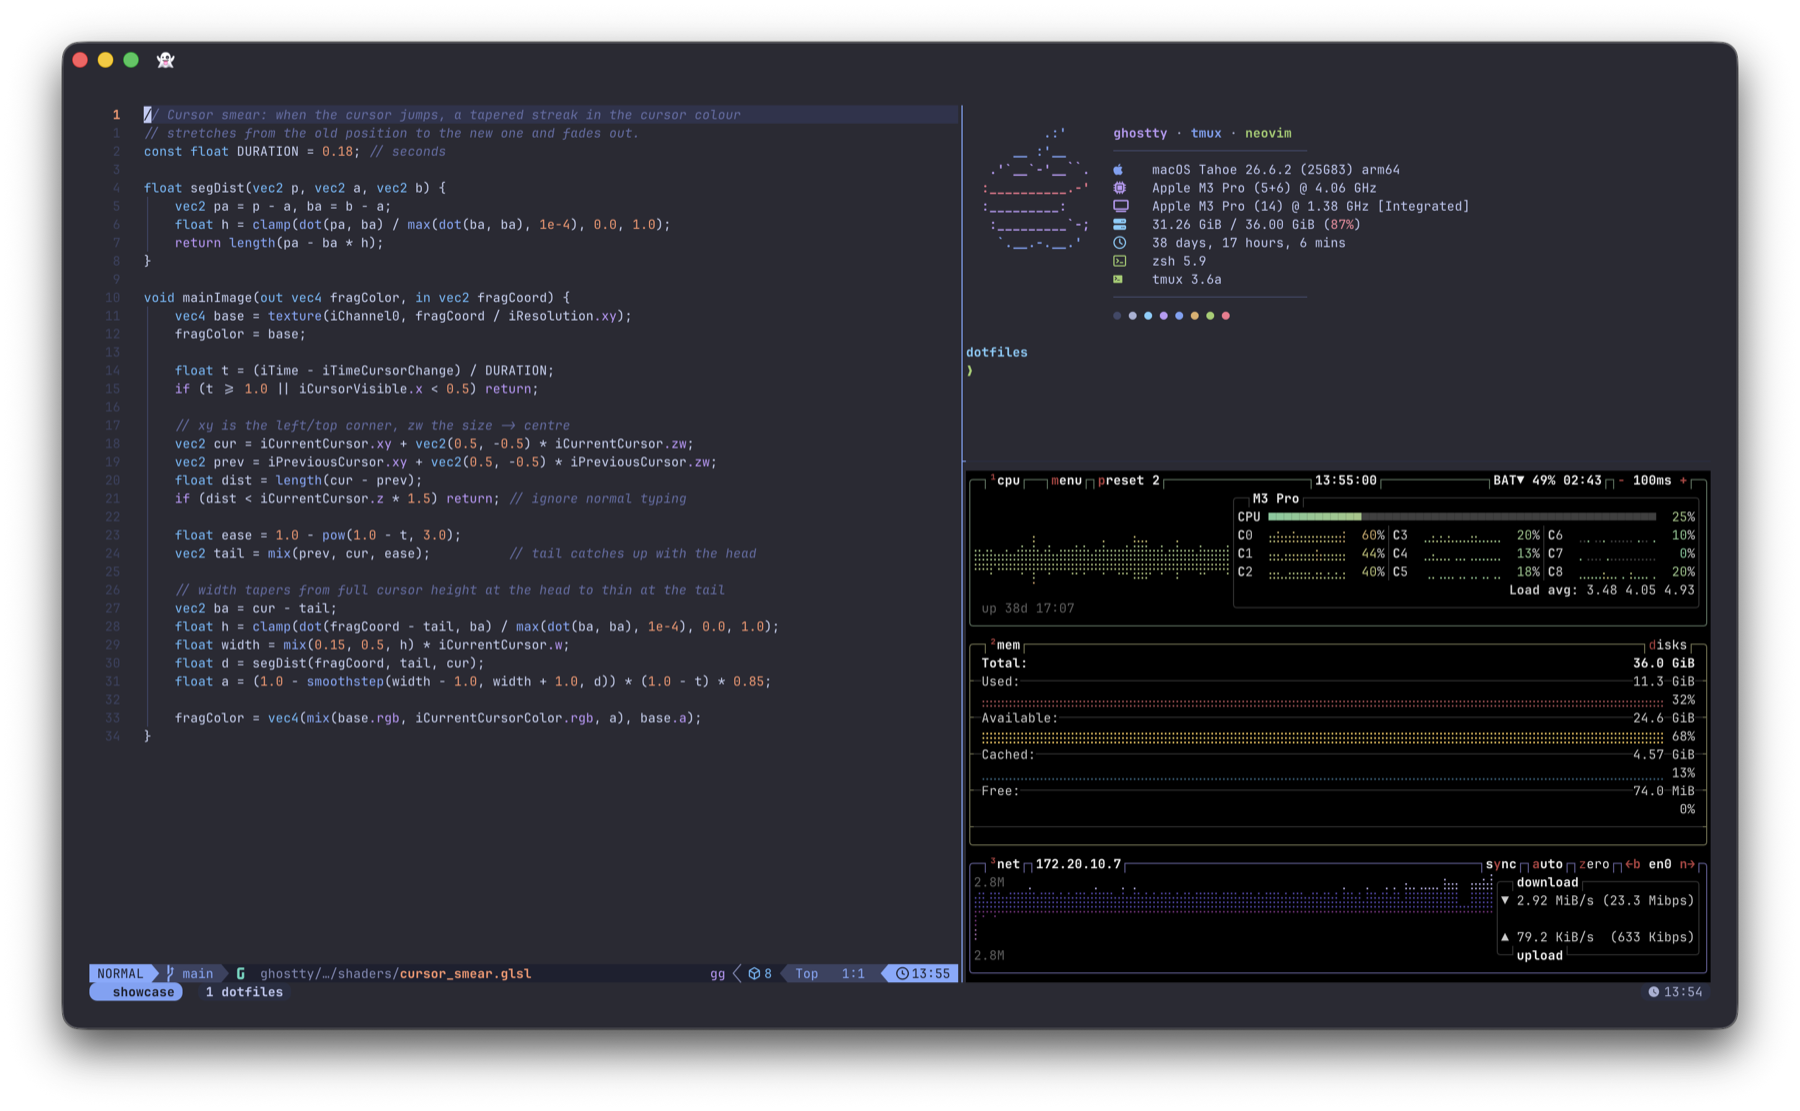
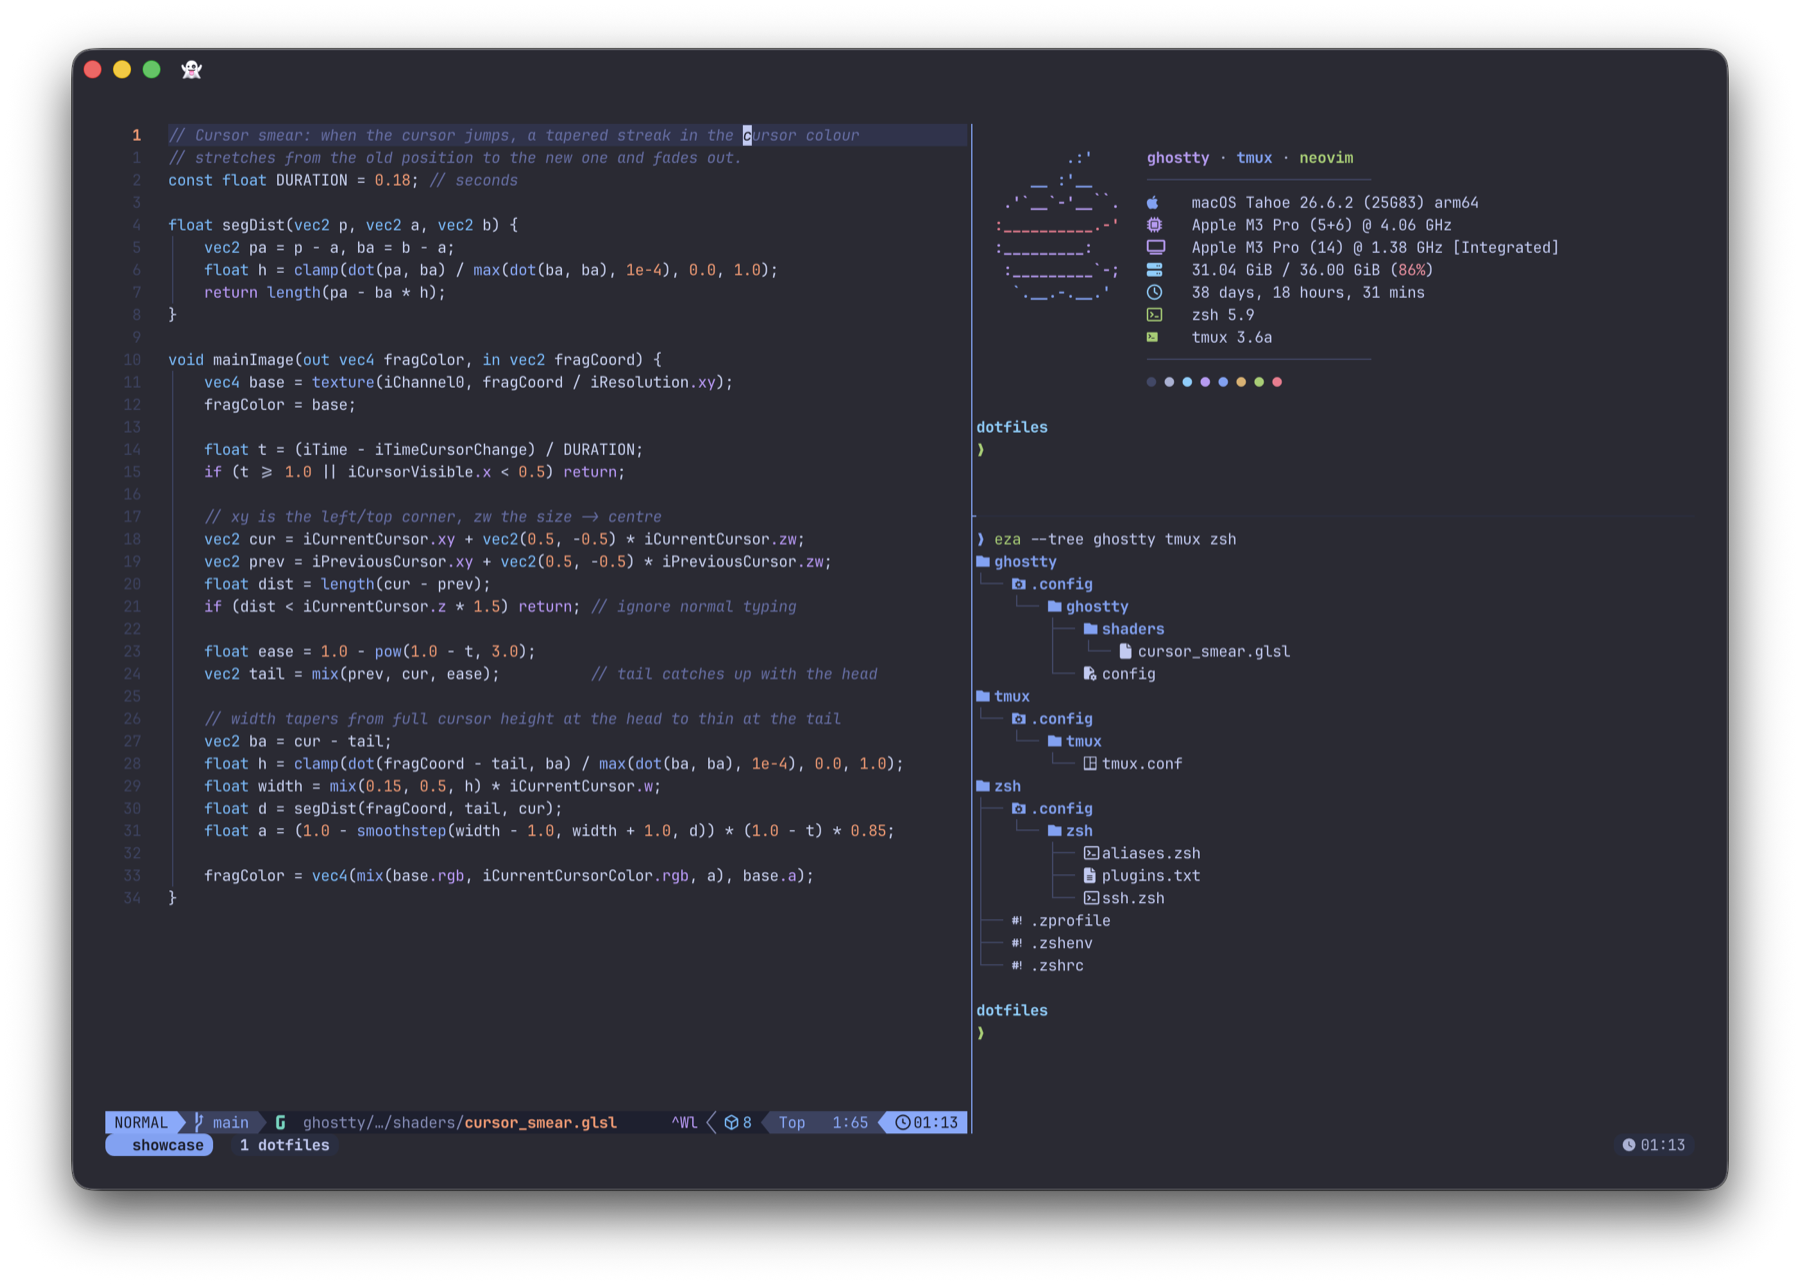
readme: new Ghostty screenshot

diff --git a/README.md b/README.md
@@ -16,7 +16,7 @@
 </p>
 
 <p align="center">
-  <img src=".github/assets/ghostty.png" alt="Ghostty with tmux: Neovim, fastfetch and btop" width="100%" />
+  <img src=".github/assets/ghostty.png" alt="Ghostty with tmux: Neovim, fastfetch and an eza tree of the configs" width="100%" />
 </p>
 
 <p align="center">
